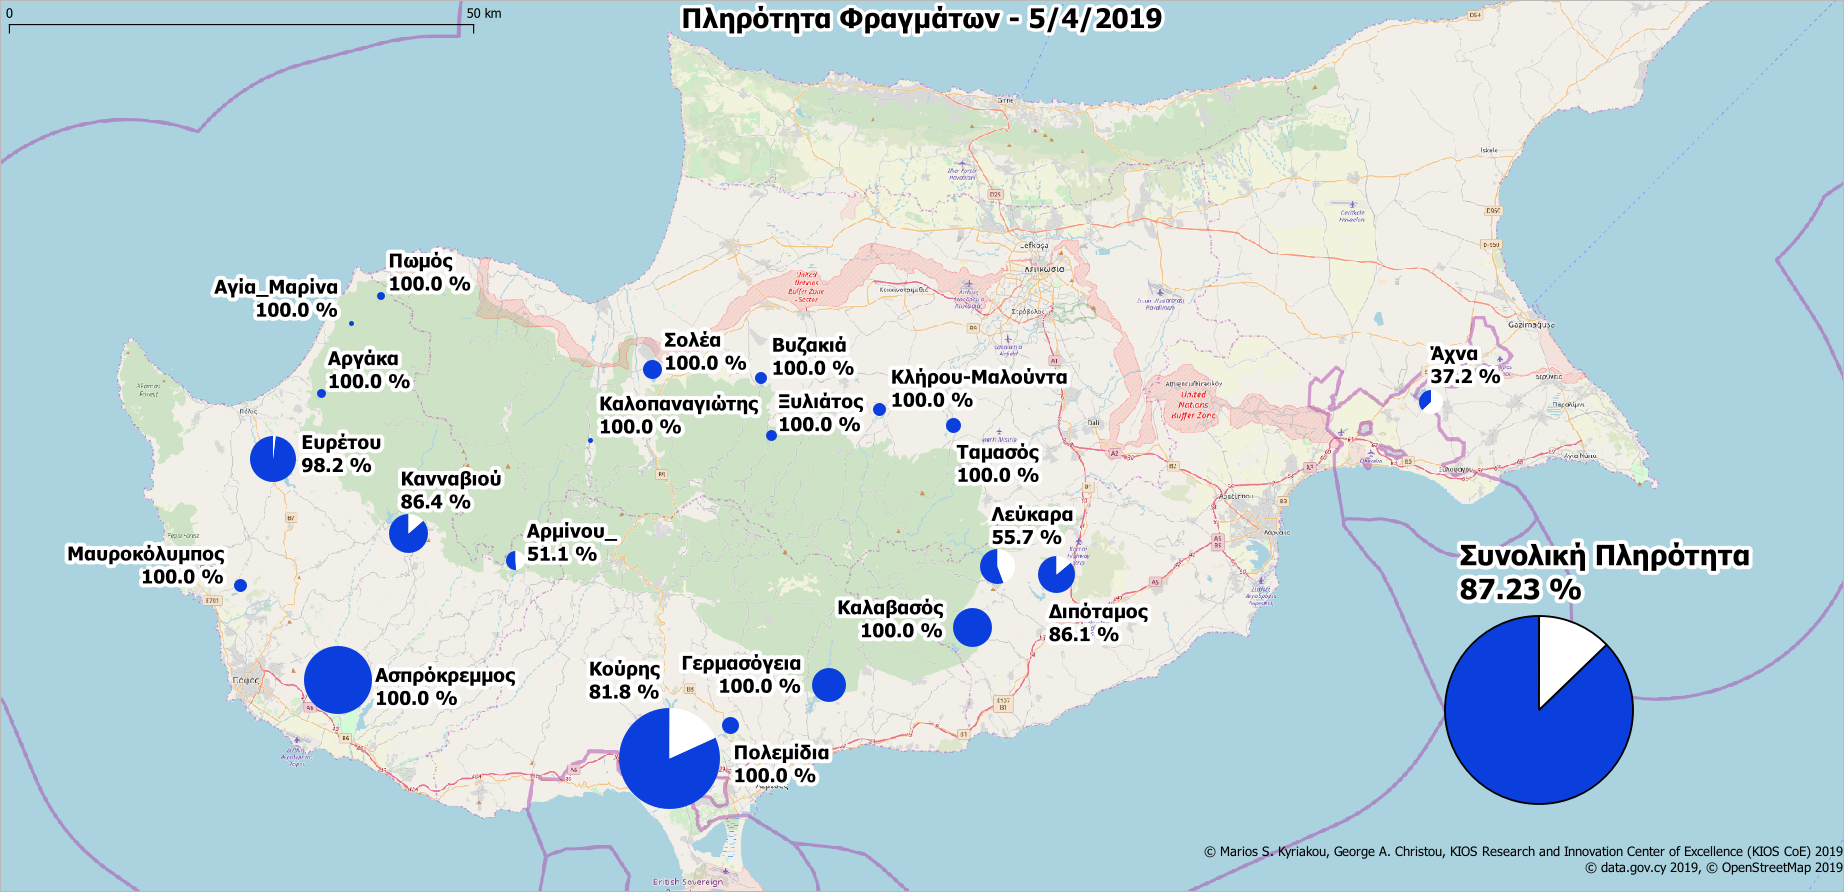
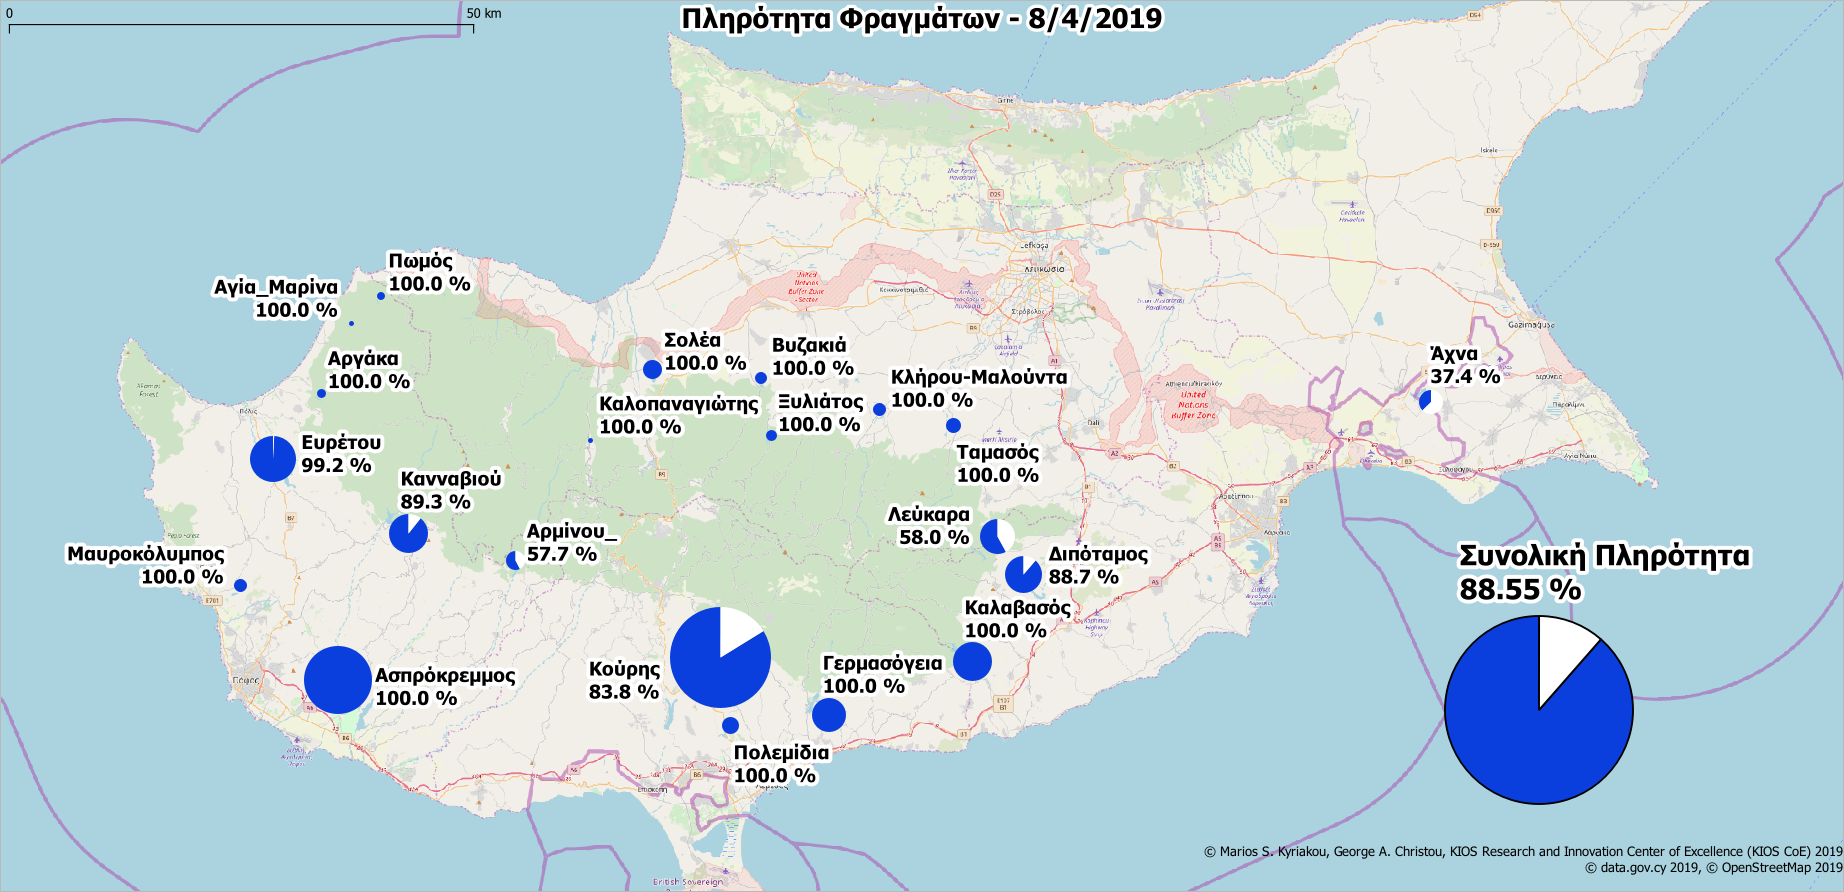
update

diff --git a/dams.html b/dams.html
@@ -11,7 +11,7 @@
      1px  1px 7px WHITE;
 }
 }
-</style><p><b>Ημερομηνία ανανέωσης δεδομένων: 5/4/2019<p><font color="#0000FF">Η συνολική πληρότητα στα φράγματα είναι 87.23%</font>.<p>Υπάρχουν συνολικά <font color="#0000FF">14</font> φράγματα με πληρότητα <font color="#0000FF">100%</font>.<p>Υπάρχουν <font color="#0000FF">20</font> φράγματα με πληρότητα πάνω από <font color="#0000FF">50%</font>.</b><p><b>Υπάρχουν δεδομένα για 21 φράγματα. Συνολικά υπάρχουν 108 φράγματα. <b><p><p><p>* Ε.Κ.Μ. - Εκατομμύρια Kυβικά  Mέτρα.<table width="444">
+</style><p><b>Ημερομηνία ανανέωσης δεδομένων: 5/4/2019<p><font color="#0000FF">Η συνολική πληρότητα στα φράγματα είναι 88.55%</font>.<p>Υπάρχουν συνολικά <font color="#0000FF">14</font> φράγματα με πληρότητα <font color="#0000FF">100%</font>.<p>Υπάρχουν <font color="#0000FF">20</font> φράγματα με πληρότητα πάνω από <font color="#0000FF">50%</font>.</b><p><b>Υπάρχουν δεδομένα για 21 φράγματα. Συνολικά υπάρχουν 108 φράγματα. <b><p><p><p>* Ε.Κ.Μ. - Εκατομμύρια Kυβικά  Mέτρα.<table width="444">
 <tbody>
 <tr>
 <th width="2"><b></b></th>
@@ -19,7 +19,7 @@
 <th width="60"><b>Χωρητικότητα (Ε.Κ.Μ.)</b></th>
 <th width="60"><b>Σημερινή (Ε.Κ.Μ.)</b></th>
 <th width="60"><b> Σημερινή Πληρότητα (%)</b></th>
-</tr><tr><td bgcolor=#48AC4E class=border-white>1</td><td bgcolor=#48AC4E class=border-white>Κούρης</td><td bgcolor=#48AC4E class=border-white>115.0</td><td bgcolor=#48AC4E class=border-white>94.121</td><td bgcolor=#48AC4E class=border-white>81.8</td></tr><tr><tr><td bgcolor=#1A9641 class=border-white>2</td><td bgcolor=#1A9641 class=border-white>Ασπρόκρεμμος</td><td bgcolor=#1A9641 class=border-white>52.375</td><td bgcolor=#1A9641 class=border-white>52.375</td><td bgcolor=#1A9641 class=border-white>100.0</td></tr><tr><tr><td bgcolor=#1A9641 class=border-white>3</td><td bgcolor=#1A9641 class=border-white>Ευρέτου</td><td bgcolor=#1A9641 class=border-white>24.0</td><td bgcolor=#1A9641 class=border-white>23.559</td><td bgcolor=#1A9641 class=border-white>98.2</td></tr><tr><tr><td bgcolor=#48AC4E class=border-white>4</td><td bgcolor=#48AC4E class=border-white>Κανναβιού</td><td bgcolor=#48AC4E class=border-white>17.168</td><td bgcolor=#48AC4E class=border-white>14.832</td><td bgcolor=#48AC4E class=border-white>86.4</td></tr><tr><tr><td bgcolor=#1A9641 class=border-white>5</td><td bgcolor=#1A9641 class=border-white>Καλαβασός</td><td bgcolor=#1A9641 class=border-white>17.1</td><td bgcolor=#1A9641 class=border-white>17.1</td><td bgcolor=#1A9641 class=border-white>100.0</td></tr><tr><tr><td bgcolor=#48AC4E class=border-white>6</td><td bgcolor=#48AC4E class=border-white>Διπόταμος</td><td bgcolor=#48AC4E class=border-white>15.5</td><td bgcolor=#48AC4E class=border-white>13.34</td><td bgcolor=#48AC4E class=border-white>86.1</td></tr><tr><tr><td bgcolor=#D2EC95 class=border-white>7</td><td bgcolor=#D2EC95 class=border-white>Λεύκαρα</td><td bgcolor=#D2EC95 class=border-white>13.85</td><td bgcolor=#D2EC95 class=border-white>7.717</td><td bgcolor=#D2EC95 class=border-white>55.7</td></tr><tr><tr><td bgcolor=#1A9641 class=border-white>8</td><td bgcolor=#1A9641 class=border-white>Γερμασόγεια</td><td bgcolor=#1A9641 class=border-white>13.5</td><td bgcolor=#1A9641 class=border-white>13.5</td><td bgcolor=#1A9641 class=border-white>100.0</td></tr><tr><tr><td bgcolor=#FED690 class=border-white>9</td><td bgcolor=#FED690 class=border-white>Άχνα</td><td bgcolor=#FED690 class=border-white>6.8</td><td bgcolor=#FED690 class=border-white>2.528</td><td bgcolor=#FED690 class=border-white>37.2</td></tr><tr><tr><td bgcolor=#1A9641 class=border-white>10</td><td bgcolor=#1A9641 class=border-white>Σολέα</td><td bgcolor=#1A9641 class=border-white>4.454</td><td bgcolor=#1A9641 class=border-white>4.454</td><td bgcolor=#1A9641 class=border-white>100.0</td></tr><tr><tr><td bgcolor=#D2EC95 class=border-white>11</td><td bgcolor=#D2EC95 class=border-white>Αρμίνου_</td><td bgcolor=#D2EC95 class=border-white>4.3</td><td bgcolor=#D2EC95 class=border-white>2.199</td><td bgcolor=#D2EC95 class=border-white>51.1</td></tr><tr><tr><td bgcolor=#1A9641 class=border-white>12</td><td bgcolor=#1A9641 class=border-white>Πολεμίδια</td><td bgcolor=#1A9641 class=border-white>3.4</td><td bgcolor=#1A9641 class=border-white>3.4</td><td bgcolor=#1A9641 class=border-white>100.0</td></tr><tr><tr><td bgcolor=#1A9641 class=border-white>13</td><td bgcolor=#1A9641 class=border-white>Ταμασός</td><td bgcolor=#1A9641 class=border-white>2.8</td><td bgcolor=#1A9641 class=border-white>2.8</td><td bgcolor=#1A9641 class=border-white>100.0</td></tr><tr><tr><td bgcolor=#1A9641 class=border-white>14</td><td bgcolor=#1A9641 class=border-white>Μαυροκόλυμπος</td><td bgcolor=#1A9641 class=border-white>2.18</td><td bgcolor=#1A9641 class=border-white>2.18</td><td bgcolor=#1A9641 class=border-white>100.0</td></tr><tr><tr><td bgcolor=#1A9641 class=border-white>15</td><td bgcolor=#1A9641 class=border-white>Κλήρου-Μαλούντα</td><td bgcolor=#1A9641 class=border-white>2.0</td><td bgcolor=#1A9641 class=border-white>2.0</td><td bgcolor=#1A9641 class=border-white>100.0</td></tr><tr><tr><td bgcolor=#1A9641 class=border-white>16</td><td bgcolor=#1A9641 class=border-white>Βυζακιά</td><td bgcolor=#1A9641 class=border-white>1.69</td><td bgcolor=#1A9641 class=border-white>1.69</td><td bgcolor=#1A9641 class=border-white>100.0</td></tr><tr><tr><td bgcolor=#1A9641 class=border-white>17</td><td bgcolor=#1A9641 class=border-white>Ξυλιάτος</td><td bgcolor=#1A9641 class=border-white>1.43</td><td bgcolor=#1A9641 class=border-white>1.43</td><td bgcolor=#1A9641 class=border-white>100.0</td></tr><tr><tr><td bgcolor=#1A9641 class=border-white>18</td><td bgcolor=#1A9641 class=border-white>Αργάκα</td><td bgcolor=#1A9641 class=border-white>0.99</td><td bgcolor=#1A9641 class=border-white>0.99</td><td bgcolor=#1A9641 class=border-white>100.0</td></tr><tr><tr><td bgcolor=#1A9641 class=border-white>19</td><td bgcolor=#1A9641 class=border-white>Πωμός</td><td bgcolor=#1A9641 class=border-white>0.86</td><td bgcolor=#1A9641 class=border-white>0.86</td><td bgcolor=#1A9641 class=border-white>100.0</td></tr><tr><tr><td bgcolor=#1A9641 class=border-white>20</td><td bgcolor=#1A9641 class=border-white>Καλοπαναγιώτης</td><td bgcolor=#1A9641 class=border-white>0.363</td><td bgcolor=#1A9641 class=border-white>0.363</td><td bgcolor=#1A9641 class=border-white>100.0</td></tr><tr><tr><td bgcolor=#1A9641 class=border-white>21</td><td bgcolor=#1A9641 class=border-white>Αγία_Μαρίνα</td><td bgcolor=#1A9641 class=border-white>0.298</td><td bgcolor=#1A9641 class=border-white>0.298</td><td bgcolor=#1A9641 class=border-white>100.0</td></tr><tr>
+</tr><tr><td bgcolor=#48AC4E class=border-white>1</td><td bgcolor=#48AC4E class=border-white>Κούρης</td><td bgcolor=#48AC4E class=border-white>115.0</td><td bgcolor=#48AC4E class=border-white>96.332</td><td bgcolor=#48AC4E class=border-white>83.8</td></tr><tr><tr><td bgcolor=#1A9641 class=border-white>2</td><td bgcolor=#1A9641 class=border-white>Ασπρόκρεμμος</td><td bgcolor=#1A9641 class=border-white>52.375</td><td bgcolor=#1A9641 class=border-white>52.375</td><td bgcolor=#1A9641 class=border-white>100.0</td></tr><tr><tr><td bgcolor=#1A9641 class=border-white>3</td><td bgcolor=#1A9641 class=border-white>Ευρέτου</td><td bgcolor=#1A9641 class=border-white>24.0</td><td bgcolor=#1A9641 class=border-white>23.797</td><td bgcolor=#1A9641 class=border-white>99.2</td></tr><tr><tr><td bgcolor=#48AC4E class=border-white>4</td><td bgcolor=#48AC4E class=border-white>Κανναβιού</td><td bgcolor=#48AC4E class=border-white>17.168</td><td bgcolor=#48AC4E class=border-white>15.3337</td><td bgcolor=#48AC4E class=border-white>89.3</td></tr><tr><tr><td bgcolor=#1A9641 class=border-white>5</td><td bgcolor=#1A9641 class=border-white>Καλαβασός</td><td bgcolor=#1A9641 class=border-white>17.1</td><td bgcolor=#1A9641 class=border-white>17.1</td><td bgcolor=#1A9641 class=border-white>100.0</td></tr><tr><tr><td bgcolor=#48AC4E class=border-white>6</td><td bgcolor=#48AC4E class=border-white>Διπόταμος</td><td bgcolor=#48AC4E class=border-white>15.5</td><td bgcolor=#48AC4E class=border-white>13.745</td><td bgcolor=#48AC4E class=border-white>88.7</td></tr><tr><tr><td bgcolor=#D2EC95 class=border-white>7</td><td bgcolor=#D2EC95 class=border-white>Λεύκαρα</td><td bgcolor=#D2EC95 class=border-white>13.85</td><td bgcolor=#D2EC95 class=border-white>8.035</td><td bgcolor=#D2EC95 class=border-white>58.0</td></tr><tr><tr><td bgcolor=#1A9641 class=border-white>8</td><td bgcolor=#1A9641 class=border-white>Γερμασόγεια</td><td bgcolor=#1A9641 class=border-white>13.5</td><td bgcolor=#1A9641 class=border-white>13.5</td><td bgcolor=#1A9641 class=border-white>100.0</td></tr><tr><tr><td bgcolor=#FED690 class=border-white>9</td><td bgcolor=#FED690 class=border-white>Άχνα</td><td bgcolor=#FED690 class=border-white>6.8</td><td bgcolor=#FED690 class=border-white>2.54</td><td bgcolor=#FED690 class=border-white>37.4</td></tr><tr><tr><td bgcolor=#1A9641 class=border-white>10</td><td bgcolor=#1A9641 class=border-white>Σολέα</td><td bgcolor=#1A9641 class=border-white>4.454</td><td bgcolor=#1A9641 class=border-white>4.454</td><td bgcolor=#1A9641 class=border-white>100.0</td></tr><tr><tr><td bgcolor=#D2EC95 class=border-white>11</td><td bgcolor=#D2EC95 class=border-white>Αρμίνου_</td><td bgcolor=#D2EC95 class=border-white>4.3</td><td bgcolor=#D2EC95 class=border-white>2.479</td><td bgcolor=#D2EC95 class=border-white>57.7</td></tr><tr><tr><td bgcolor=#1A9641 class=border-white>12</td><td bgcolor=#1A9641 class=border-white>Πολεμίδια</td><td bgcolor=#1A9641 class=border-white>3.4</td><td bgcolor=#1A9641 class=border-white>3.4</td><td bgcolor=#1A9641 class=border-white>100.0</td></tr><tr><tr><td bgcolor=#1A9641 class=border-white>13</td><td bgcolor=#1A9641 class=border-white>Ταμασός</td><td bgcolor=#1A9641 class=border-white>2.8</td><td bgcolor=#1A9641 class=border-white>2.8</td><td bgcolor=#1A9641 class=border-white>100.0</td></tr><tr><tr><td bgcolor=#1A9641 class=border-white>14</td><td bgcolor=#1A9641 class=border-white>Μαυροκόλυμπος</td><td bgcolor=#1A9641 class=border-white>2.18</td><td bgcolor=#1A9641 class=border-white>2.18</td><td bgcolor=#1A9641 class=border-white>100.0</td></tr><tr><tr><td bgcolor=#1A9641 class=border-white>15</td><td bgcolor=#1A9641 class=border-white>Κλήρου-Μαλούντα</td><td bgcolor=#1A9641 class=border-white>2.0</td><td bgcolor=#1A9641 class=border-white>2.0</td><td bgcolor=#1A9641 class=border-white>100.0</td></tr><tr><tr><td bgcolor=#1A9641 class=border-white>16</td><td bgcolor=#1A9641 class=border-white>Βυζακιά</td><td bgcolor=#1A9641 class=border-white>1.69</td><td bgcolor=#1A9641 class=border-white>1.69</td><td bgcolor=#1A9641 class=border-white>100.0</td></tr><tr><tr><td bgcolor=#1A9641 class=border-white>17</td><td bgcolor=#1A9641 class=border-white>Ξυλιάτος</td><td bgcolor=#1A9641 class=border-white>1.43</td><td bgcolor=#1A9641 class=border-white>1.43</td><td bgcolor=#1A9641 class=border-white>100.0</td></tr><tr><tr><td bgcolor=#1A9641 class=border-white>18</td><td bgcolor=#1A9641 class=border-white>Αργάκα</td><td bgcolor=#1A9641 class=border-white>0.99</td><td bgcolor=#1A9641 class=border-white>0.99</td><td bgcolor=#1A9641 class=border-white>100.0</td></tr><tr><tr><td bgcolor=#1A9641 class=border-white>19</td><td bgcolor=#1A9641 class=border-white>Πωμός</td><td bgcolor=#1A9641 class=border-white>0.86</td><td bgcolor=#1A9641 class=border-white>0.86</td><td bgcolor=#1A9641 class=border-white>100.0</td></tr><tr><tr><td bgcolor=#1A9641 class=border-white>20</td><td bgcolor=#1A9641 class=border-white>Καλοπαναγιώτης</td><td bgcolor=#1A9641 class=border-white>0.363</td><td bgcolor=#1A9641 class=border-white>0.363</td><td bgcolor=#1A9641 class=border-white>100.0</td></tr><tr><tr><td bgcolor=#1A9641 class=border-white>21</td><td bgcolor=#1A9641 class=border-white>Αγία_Μαρίνα</td><td bgcolor=#1A9641 class=border-white>0.298</td><td bgcolor=#1A9641 class=border-white>0.298</td><td bgcolor=#1A9641 class=border-white>100.0</td></tr><tr>
 </tr>
 <tr>
 <td></td>
